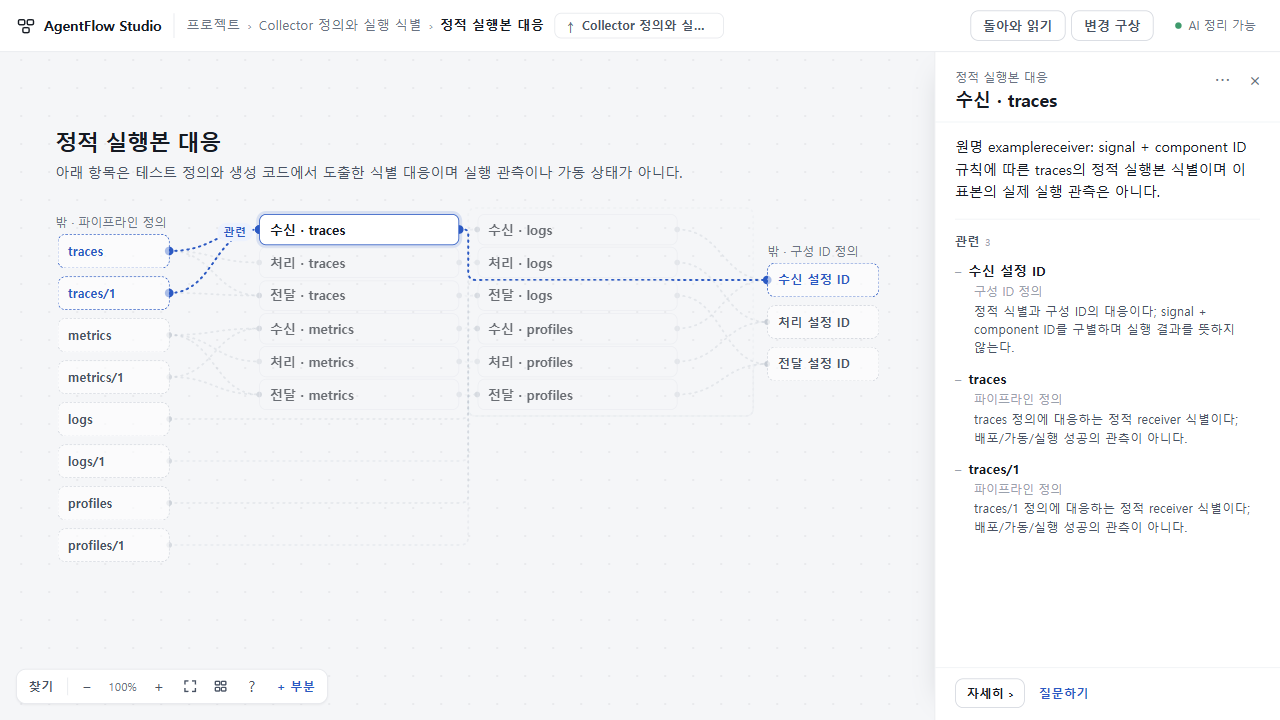
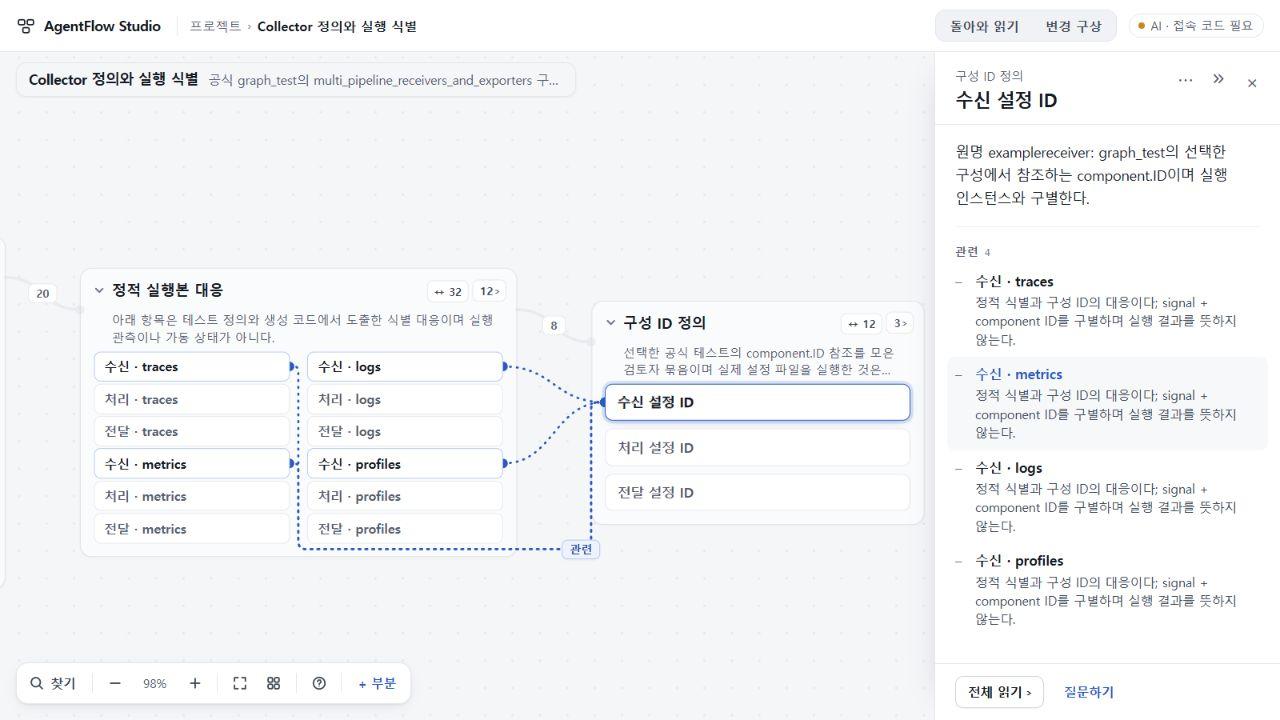
docs: record UI68 acceptance and bounded record-reading next step

diff --git a/docs/cycles/2026-10-26-visual-experience-59/RESULT.md b/docs/cycles/2026-10-26-visual-experience-59/RESULT.md
@@ -1,49 +1,51 @@
-# UI·UX66 · 복잡한 구성에서 연결 대상과 소속을 함께 읽기
+# UI·UX68 · 큰 지도의 개요·읽기면·배치 보존
 
-## 결과
+## 수용 결과
 
-상태: 2026-10-27 독립 수용·배포 완료. runtime **d037ef01f4a819b250d161e9e4229500a707bb4c**, [PR38](https://github.com/tlsee0813-cmd/agentflow-studio/pull/38), merge **cfac33423aac351e7408fd438833de80b7e58fe5**. 후보와 병합본의 app tree가 같다. [정확 SHA의 Windows·Ubuntu CI40497869855](https://github.com/tlsee0813-cmd/agentflow-studio/actions/runs/40497869855)가 모두 성공했다. 기존 [Workers](https://agentflow-studio.tlsee0813.workers.dev/)와 보조 Pages의 공개 BUILD source를 대조했다(Pages **974bab017e9116c4d10f4ca9fab07251dd53690b**).
+2026-10-28 수용·배포 완료. runtime **0dc84a1703bc9f1dbc785de8bee51d90bebd69ba**, [PR39](https://github.com/tlsee0813-cmd/agentflow-studio/pull/39), merge **3950222751ad0e0a659e4312905f1d45d391d8f7**. 후보와 병합본의 app tree가 같다. [정확 SHA Windows·Ubuntu CI40541468977](https://github.com/tlsee0813-cmd/agentflow-studio/actions/runs/40541468977) 성공 후 기존 [Workers](https://agentflow-studio.tlsee0813.workers.dev/)와 보조 Pages를 갱신했다. 양쪽 공개 BUILD source가 일치하며 Pages 커밋은 **3cd6458ca15e38132fb444d9063aea67b1e1fc17**이다.
 
-바깥 연결 대상을 범위 전체의 먼 가장자리에 몰아놓지 않고 실제 연결되는 부분 곁의 빈 공간에 놓는다. 이름은 자르지 않고, 같은 소속의 대상 위에 소속을 한 번 표시한다. 동일한 이름도 소속으로 구별된다. 공용 정의를 먼저 읽는 최초 자동 배치 순서를 보완하되 저장된 수동 위치가 우선하고, 선택할 때마다 전체를 재정렬하지 않는다.
+다른 세션의 UI67 개선을 결합했다. 큰 지도는 묶음 사이 관계를 개수 있는 집계선으로 읽고, 개요 예산이 부족할 때 작은 묶음 하나만 강조하지 않도록 균일하게 접는다. 관계 제목은 도착점 곁에 놓고, 묶음을 선택하면 내부 대상의 바깥 관계도 읽는다. 읽기면을 레일로 접을 수 있고 관계를 따라간 출발점은 읽는 곳 위에 남는다. 새로고침 뒤 접힘·카메라가 유지된다. 간격·보조 글자·선택 상태·입구 이름과 변경 구상의 현재 설명도 정돈했다.
 
-같은 종류·방향·화면 쪽의 관계는 동사를 반복하지 않는다. 개별 선과 근거는 보존하며 한 선에 전체 개수를 붙이지 않는다. 단순한 **관련**은 양쪽 점과 중립 목록으로 표시하고, 전달·필요 관계의 방향은 유지한다. 저장된 관계 ID·양 끝점·종류·원문은 바꾸지 않았다. 입력·출력·AI 계약은 이번 변경에 없다.
+## 독립 검토에서 고친 것
 
-## 어떤 구조에서 확인했나
+[원검토67](REVIEW67.md)의 네 결함을 수정했다.
 
-[기존 고정 소스와 부분지도](../2026-10-26-visual-experience-58/OSS_CASES.json)를 재사용했다. 아래는 **출처 기반 수작업 부분지도**이며 저장소 전체 자동 분석이나 OSS 자체 실행이 아니다.
+- 같은 project.id의 백업 사본을 가져와도 원본의 수동 배치를 덮지 않는다. 배치·보기는 workspace entry별로 분리하고 구형 보기의 승계도 보존한다.
+- 외부 positions의 상속 키·잘못된 좌표를 검증하고 안전한 사전으로 정리해 prototype 오염을 막는다.
+- Collector의 관계 12개 중 4개를 선택하면 개별 4개와 잔여 집계 8개가 함께 남는다. 별도 경계 20개도 보존되고 해제하면 12·20으로 돌아온다.
+- scikit의 이름 기준 전처리 조합에서 수치 Pipeline으로 가는 선은 무관한 범주 Pipeline 아래의 빈 통로로 우회한다.
 
-| 사례 | 읽기 과제와 결과 |
+후속 저장 검토에서 찾은 두 문제도 수정했다. 배치·보기 쓰기가 실패하면 새 사본과 성공 안내를 만들지 않는다. 기존 project 키의 접힘·카메라는 기존 entry만 승계하고 새 사본은 자신의 보기로 시작한다.
+
+## 무엇을 실행했나
+
+자료는 [고정 OSS 소스 기반 부분지도](../2026-10-26-visual-experience-58/OSS_CASES.json)다. OSS 자체 실행이나 전체 저장소 자동 추출 검증이 아니다.
+
+| 담당 | 실제 범위 |
 |---|---|
-| VS Code · 136개 부분 | DocumentsAndEditors의 내부 2개·바깥 3개 연결을 함께 읽는다. 43개 동급 항목 중 파일과 디렉터리인 Types도 구별한다. |
-| scikit-learn | 두 ColumnTransformer가 참조하는 정의와 각 조합의 소속을 구별한다. 같은 이름을 합치거나 학습된 상태 공유로 해석하지 않는다. |
-| Zephyr | GPIO에 닿는 6개 관련 관계를 실행 방향처럼 보이지 않게 읽는다. 부모를 접어도 실제 안쪽 대상과 근거는 읽기면에 남긴다. |
-| OpenTelemetry Collector | 설정 ID·파이프라인 정의·정적 식별 대응을 구별한다. 수신 traces의 세 바깥 끝점을 1280에서도 함께 볼 수 있다. |
+| 작성자 Claude | 최종 고정 TS5.8.3 check/build, 368 Node, 전체 Studio smoke와 두 PC 화면 통과 보고. 작성자 주장이다. |
+| 총괄 Windows | e339 check/build·366 Node, 최종 0dc check/build·7 저장 회귀 통과. Collector 1280의 4+8+20, scikit 1440 우회, VS Code 136부분의 균일 접힘·묶음 관계·카메라 복귀를 직접 조작했다. |
+| 독립 Sol6.1 High | 사본 배치·상속 키와 최종 positions/view/workspace 쓰기 거부, 구형 view 승계를 별도 in-memory Storage로 재현했다. 파일 수정·화면 검증은 하지 않았다. |
+| 독립 Cloud Sol6.1 High | e339 제공 빌드 17 browser flow 1회 exit 0, Collector/scikit/VS Code 및 긴 복귀 이름의 1280·1440 PNG를 직접 검토했다. 최종 0dc의 동일 화면 코드와 저장 delta를 대조하고 실패 안내·새 entry 0·원본 보존을 확인해 수용했다. BUILD·111 payload 해시 대조. |
+| 최종 CI | 0dc 정확 SHA의 Windows job122320686678·Ubuntu job122320686336 모두 성공. 정식 빌드·Node·브라우저·정적판 검증 경로다. 실제 AI는 스텁이다. |
+| 배포 후 총괄 | Workers/Pages 공개 BUILD를 대조하고 Workers Collector의 4+8+20을 화면에서 확인했다. 새로고침 후 선택·카메라가 정확히 유지됐다. |
 
-## 비교와 선택
+Cloud는 제공 빌드 실행이며 원격 Git 재빌드·Windows·실제 AI는 미실행이다. 번들에 static-dist가 없어 조건부 정적판 검사는 실행하지 않았으며 최종 CI가 그 경로를 확인했다. 백업 생성은 제공 serializeBackup을 호출한 검토 wrapper이고, 가져오기는 실제 UI다. Studio에는 아직 백업 다운로드 버튼이 없다.
 
-웹 Pro는 [Ilograph의 범위·바깥 맥락](https://www.ilograph.com/docs/getting-started/browsing-diagrams/), [IntelliJ의 구조 탐색](https://www.jetbrains.com/help/idea/viewing-structure-of-a-source-file.html), [Onshape의 Instances](https://cad.onshape.com/help/Content/Assembly/instances_list.htm)를 비교했다. Ilograph 공개 데모는 직접 조작했고 나머지는 공식 문서·이미지 검토다. AgentFlow 실행 검토로 세지 않는다.
+처음 718의 CI 실패는 숨겨진 집계선 3개에도 ctx가 붙어 상세선과 중복 집계된 문제였다. 기대값 3은 유지했다. 긴 복귀 이름은 의도한 줄바꿈을 버리지 않고 전체 이름·출발 범위·본문 공간·정확한 카메라 복원을 검사하도록 옛 한 줄 높이 단언을 교체했다.
 
-Opus5.5 High의 두 안 중 실제 연결 곁에 끝점을 두는 안을 수정 채택했다. 화면 가장자리에 별도 표지를 띄우는 안, 상시 새 사이드바, 선택마다 전체를 다시 배치하는 안은 제외했다. 단순히 반복 문구를 줄이기 위해 관계를 합치거나 원문을 바꾸지 않았다.
+## 대표 화면과 한계
 
-## 검증과 반려
+![공개 Workers Collector · 개별 4개와 잔여 8·20 · 1280×720](complex-collector-1280.png)
 
-- **작성자:** 최종 d037에서 타입·빌드, Node 344검사, Studio 브라우저 18흐름 및 두 PC 크기 직접 화면을 통과했다고 반환했다. 자체 주장과 아래 독립 확인을 구별한다.
-- **Sol6.1 High 정적 검토:** 첫 후보414의 긴 조상 제목 높이가 두 줄로 제한돼 겹칠 수 있음을 지적했다. 작성자가 59+59+60자 소속 경로와 60자 끝점으로 재현·수리했다.
-- **총괄 Windows 직접 조작:** VS Code 관계 왕복의 카메라·선택 보존, scikit 소속과 단계 순서, Zephyr 중립 6관계를 확인했다. 첫 후보414의 Collector 끝점 하나가 읽기 영역 밖으로 밀리는 것을 반려했다. 최종 d037에서는 1280·1440 모두 세 끝점이 보이고 이름·소속이 읽힌다.
-- **독립 Cloud:** 작성자와 별도의 Sol6.1 High. 414에서 네 사례·1280/1440 조작과 PNG를 검토하고 Collector 가림을 독립 재현했다. 최종 d037의 BUILD·109개 payload 해시를 대조한 뒤, 두 PC에서 Collector 세 끝점과 scikit 동일 이름의 소속, 60자 끝점·59/59/60자 조상 경로를 실제로 읽었다. relation_visit_flow를 원단언 그대로 1회 통과했고 확인 범위에서 남은 P1/P2 없이 수용했다. 긴 경로는 여전히 조밀하다. 제공 빌드 실행이며 원격 Git 재빌드·Windows·실제 AI는 미실행이다. converter continue 장면에 .ctx가 0개여서 해당 선의 독립 시각 검증으로 세지 않는다. 서버·브라우저 종료.
-- **최종 CI:** Ubuntu job122167818612·Windows job122167818943 성공. 실제 AI가 아닌 시뮬레이션 공급자 검사다.
-- **배포 후:** Workers·Pages 공개 BUILD source d037 일치. 공개 Workers 1280에서 Collector의 세 끝점·소속·중립 관계를 직접 확인했다. 수신 설정 ID를 따라갔다 복귀할 때 선택과 카메라 translate(259.2px, 162px) scale(1)이 보존됐다.
+![scikit · 수치 Pipeline 선의 빈 통로 우회 · 1440×900](complex-scikit-1440.png)
 
-첫 후보414의 양 OS CI는 related 목록이 두 그룹에서 하나로 짧아져 600px 창에 스크롤이 생기지 않는 검사 전제에서 실패했다. 해당 구간만 500px로 바꾸고 실제 스크롤 및 복귀 값 일치 단언은 유지했다. 전체 단언을 약화하거나 실패를 재실행으로 덮지 않았다.
+Collector 선택 시 왼쪽 묶음 일부는 화면 밖에 남아 전체를 한 번에 읽지는 못한다. 작은 배율의 긴 이름과 긴 소속은 여전히 조밀하다. 우회 탐색은 제한된 주변 통로를 대상으로 하며 임의 배치의 무겹침을 보증하지 않는다. workspace 쓰기 거부 후에는 비어 있는 미참조 view 기록 하나가 남을 수 있으나 원본이나 프로젝트 사본은 생성·변경되지 않는다.
 
-Collector 가림은 414에서 총괄과 Cloud가 직접 관측했다. 65의 초기 배율은 Windows와 작성자 Linux에서 달라 **66이 새로 만든 회귀라고 확정하지 않는다**. 최종 후보에서 관측된 가림의 해소를 판정했다.
+## 다음 범위
 
-## 대표 화면과 남는 한계
+사용자 승인으로 입력·출력의 절대 제외를 해제했다. 다음69는 **실제 작업 원문 한 번 붙여넣기 → 짧은 읽기와 근거 있는 관련 후보 → 같은 지도 복귀**만 구현한다. 새 hook/MCP/Git 연결과 지도 자동 변경은 펼치지 않는다. 원자료·백업·사본 격리와 작은 백업 저장 입구를 함께 다룬다. 실제 Node-RED PR6019 원본문과 동명 PC/장치 합성 반례를 사용하며 작성자 검사 보고를 독립 실행으로 바꾸지 않는다.
 
-![VS Code · 내부와 바깥의 다섯 연결 · 1280×720](complex-vscode-1280.png)
+Pro의 Eraser/NotebookLM/Grafana 공식 메커니즘 비교와 Sol의 저장·후보 계약 검토를 통합했다. canonical 설명·상태를 보고만으로 자동 덮는 제안은 채택하지 않았다. DeepSeek 워커 추출은 오류·빈 반환으로 미채택했으며 총괄이 공개 원자료를 직접 대조했다. 아직69 구현·실제 AI 품질 수용은 아니다.
 
-![공개 Workers Collector · 세 바깥 끝점과 정적 대응 · 1280×720](complex-collector-1280.png)
-
-많은 동급 항목 전체가 한 화면에 들어오는 것은 아니다. 선택한 대상의 관련 부분을 읽고, 나머지는 확대·이동·범위 진입으로 탐색한다. 긴 원문과 여러 관계의 근거는 읽기면에서 스크롤이 필요하며, 모든 배치·모든 글꼴의 무겹침을 보증하지 않는다. 페이지 새로고침 뒤 접힘 초기화는 기존 동작이다.
-
-이번에는 새 실제 AI 호출·자동 수신·자동 이해 일반 품질을 검증하지 않았다. [직전65의 변경 구상·실제 AI 검토](https://github.com/tlsee0813-cmd/agentflow-studio/blob/e3cc3a6a30f9536db9935854698438466844d176/docs/cycles/2026-10-26-visual-experience-59/RESULT.md)는 고정 커밋에 보존한다. 현재 결과 파일과 대표 PNG 두 장만 추가·갱신하며 전체 ZIP·긴 로그·새 감사 폴더는 게시하지 않는다.
+[직전66 결과](https://github.com/tlsee0813-cmd/agentflow-studio/blob/0cfb4f6c8a3e98880cf3bf034d87369ba42f6554/docs/cycles/2026-10-26-visual-experience-59/RESULT.md)는 고정 커밋에 보존한다. 기존 결과·대표 PNG만 갱신하며 ZIP·긴 실행 로그는 게시하지 않는다.

diff --git a/docs/cycles/ACTIVE.md b/docs/cycles/ACTIVE.md
@@ -1,5 +1,7 @@
 # AgentFlow 현재 상태
 
+**개요·읽기·보존68 · 2026-10-28 수용·배포:** [변경·독립 검증·대표 화면](2026-10-26-visual-experience-59/RESULT.md). UI67 개선에 사본 배치/외부 positions/선택 잔여 집계/관계선 관통 수정과 저장 실패·구형 view 승계를 결합했다. runtime0dc84a1703bc9f1dbc785de8bee51d90bebd69ba, PR39 merge3950222751ad0e0a659e4312905f1d45d391d8f7과 app tree 동일. 정확 SHA 양OS CI40541468977·독립 Cloud 화면/저장 수용 후 Workers·보조Pages 갱신·공개 BUILD와 새로고침 보존 확인. 다음69는 실제 원문 붙여넣기→근거 있는 읽기/관련 후보→같은 지도 복귀이며 별도 work/experience69-record-reading에서 진행한다. hook/MCP/Git 자동연결·지도 자동 덮기는 포함하지 않는다.
+
 **복잡한 구성 읽기66 · 2026-10-27 · 독립 수용 후 배포:** [결정·교차 사례·대표 화면](2026-10-26-visual-experience-59/RESULT.md). VS Code·scikit-learn·Zephyr·Collector의 고정 소스 기반 부분지도를 직접 조작해 바깥 연결의 위치·전체 이름·소속을 읽기 쉽게 정리했다. 반복 동사는 줄이고 개별 관계는 보존하며 단순 관련을 중립 표현으로 바꿨다. source d037ef01f4a819b250d161e9e4229500a707bb4c, PR38 merge cfac33423aac351e7408fd438833de80b7e58fe5와 app tree 동일. Cloud 독립 PC 화면·긴 소속 반례·복귀 확인, 정확 SHA Windows·Ubuntu CI40497869855 성공 후 Workers·보조Pages를 갱신했다. 자동 추출·OSS 자체 실행·새 실제 AI·입출력 확장은 이번 범위가 아니다.
 
 **변경 구상65 · 2026-10-27 · 독립 수용 후 배포:** [결정·실제 응답·대표 화면](https://github.com/tlsee0813-cmd/agentflow-studio/blob/e3cc3a6a30f9536db9935854698438466844d176/docs/cycles/2026-10-26-visual-experience-59/RESULT.md). 요구 수정 즉시 이전 분석의 생성·지도 동작을 차단하고, 넓은 비교에서 현재/바라는 결과/관련 이유와 읽기/요청 포함을 구별한다. 근거 왕복·초안·커서·지도 복귀를 보존했다. source3764788fc07dd99a2861f8136717e74ea6e91dd0, PR37 merge4ad91ebdf6932ba202bfc1340e74bd2b972de0b4와 app tree 동일. Cloud의 4사례 화면과 최종P2 보정 수용, 정확 SHA Windows·Ubuntu CI40489452723 성공 뒤 Workers·보조Pages 배포·공개 BUILD/조작 확인. 변환기와 restic 두 실제 AI 표본 및 자료 부족 반례를 기록했다. 임의 프로젝트 이해·OSS 자체 실행·입출력 확장·전체 설계 완성으로 확대하지 않는다.

diff --git a/docs/QUESTIONS.md b/docs/QUESTIONS.md
@@ -1,5 +1,7 @@
 # 연구 질문과 축적된 근거
 
+68: [개요·읽기·보존 수용](cycles/2026-10-26-visual-experience-59/RESULT.md). Q03/Q04의 묶음 집계·관계 선택·읽기면과 Q13의 새로고침/사본 배치 보존을 독립 검증했다. 원자료 자동 이해의 검증으로 확대하지 않는다. 사용자 승인에 따라 다음69는 Q06/Q11의 원문 보관→짧은 읽기→같은 지도 복귀를 좁게 다룬다. 부분 귀속을 꾸며 기존 수신을 통과시키지 않고 별도 관련 후보로 표현하며 canonical 구성은 보존한다.
+
 66 복잡한 구성 읽기: [같은 이름·바깥 소속·관계 의미](cycles/2026-10-26-visual-experience-59/RESULT.md)에서 Q03/Q04/Q13의 구성 경계·공유 정의·선택과 방문을 VS Code·scikit-learn·Zephyr·Collector의 출처 기반 부분지도로 대조했다. 최초 배치와 수동 위치를 구별하고, 반복 동사 절제와 개별 관계 보존을 함께 적용했다. 긴 조상 제목 겹침과 Collector 끝점 가림은 반려 후 최종 PC 화면으로 수리 확인했다. Q02/Q06 자동 동일성·자동 갱신 품질이나 전체 OSS 분석의 통과로 확대하지 않는다.
 
 65 변경 구상: [차이·이유·작성 맥락의 넓은 비교](https://github.com/tlsee0813-cmd/agentflow-studio/blob/e3cc3a6a30f9536db9935854698438466844d176/docs/cycles/2026-10-26-visual-experience-59/RESULT.md)에서 Q04/Q13/Q14의 읽기와 요청 포함, 근거와 현재 모습, 초안·커서·지도 복귀를 연결했다. 변환기·Node-RED·Joplin·restic 교차 화면, 두 실제 AI 요구, 독립 Cloud·양OS CI를 구별한다. 자료 부족 시 함수 호출을 사용자 출력으로 잘못 비교한 실제 응답을 반려·보정했고, 부족한 자료의 요약 단정은 남는 한계다. Q02/Q06 자동 동일성·지속 갱신이나 임의 프로젝트 정확성의 통과가 아니다.
